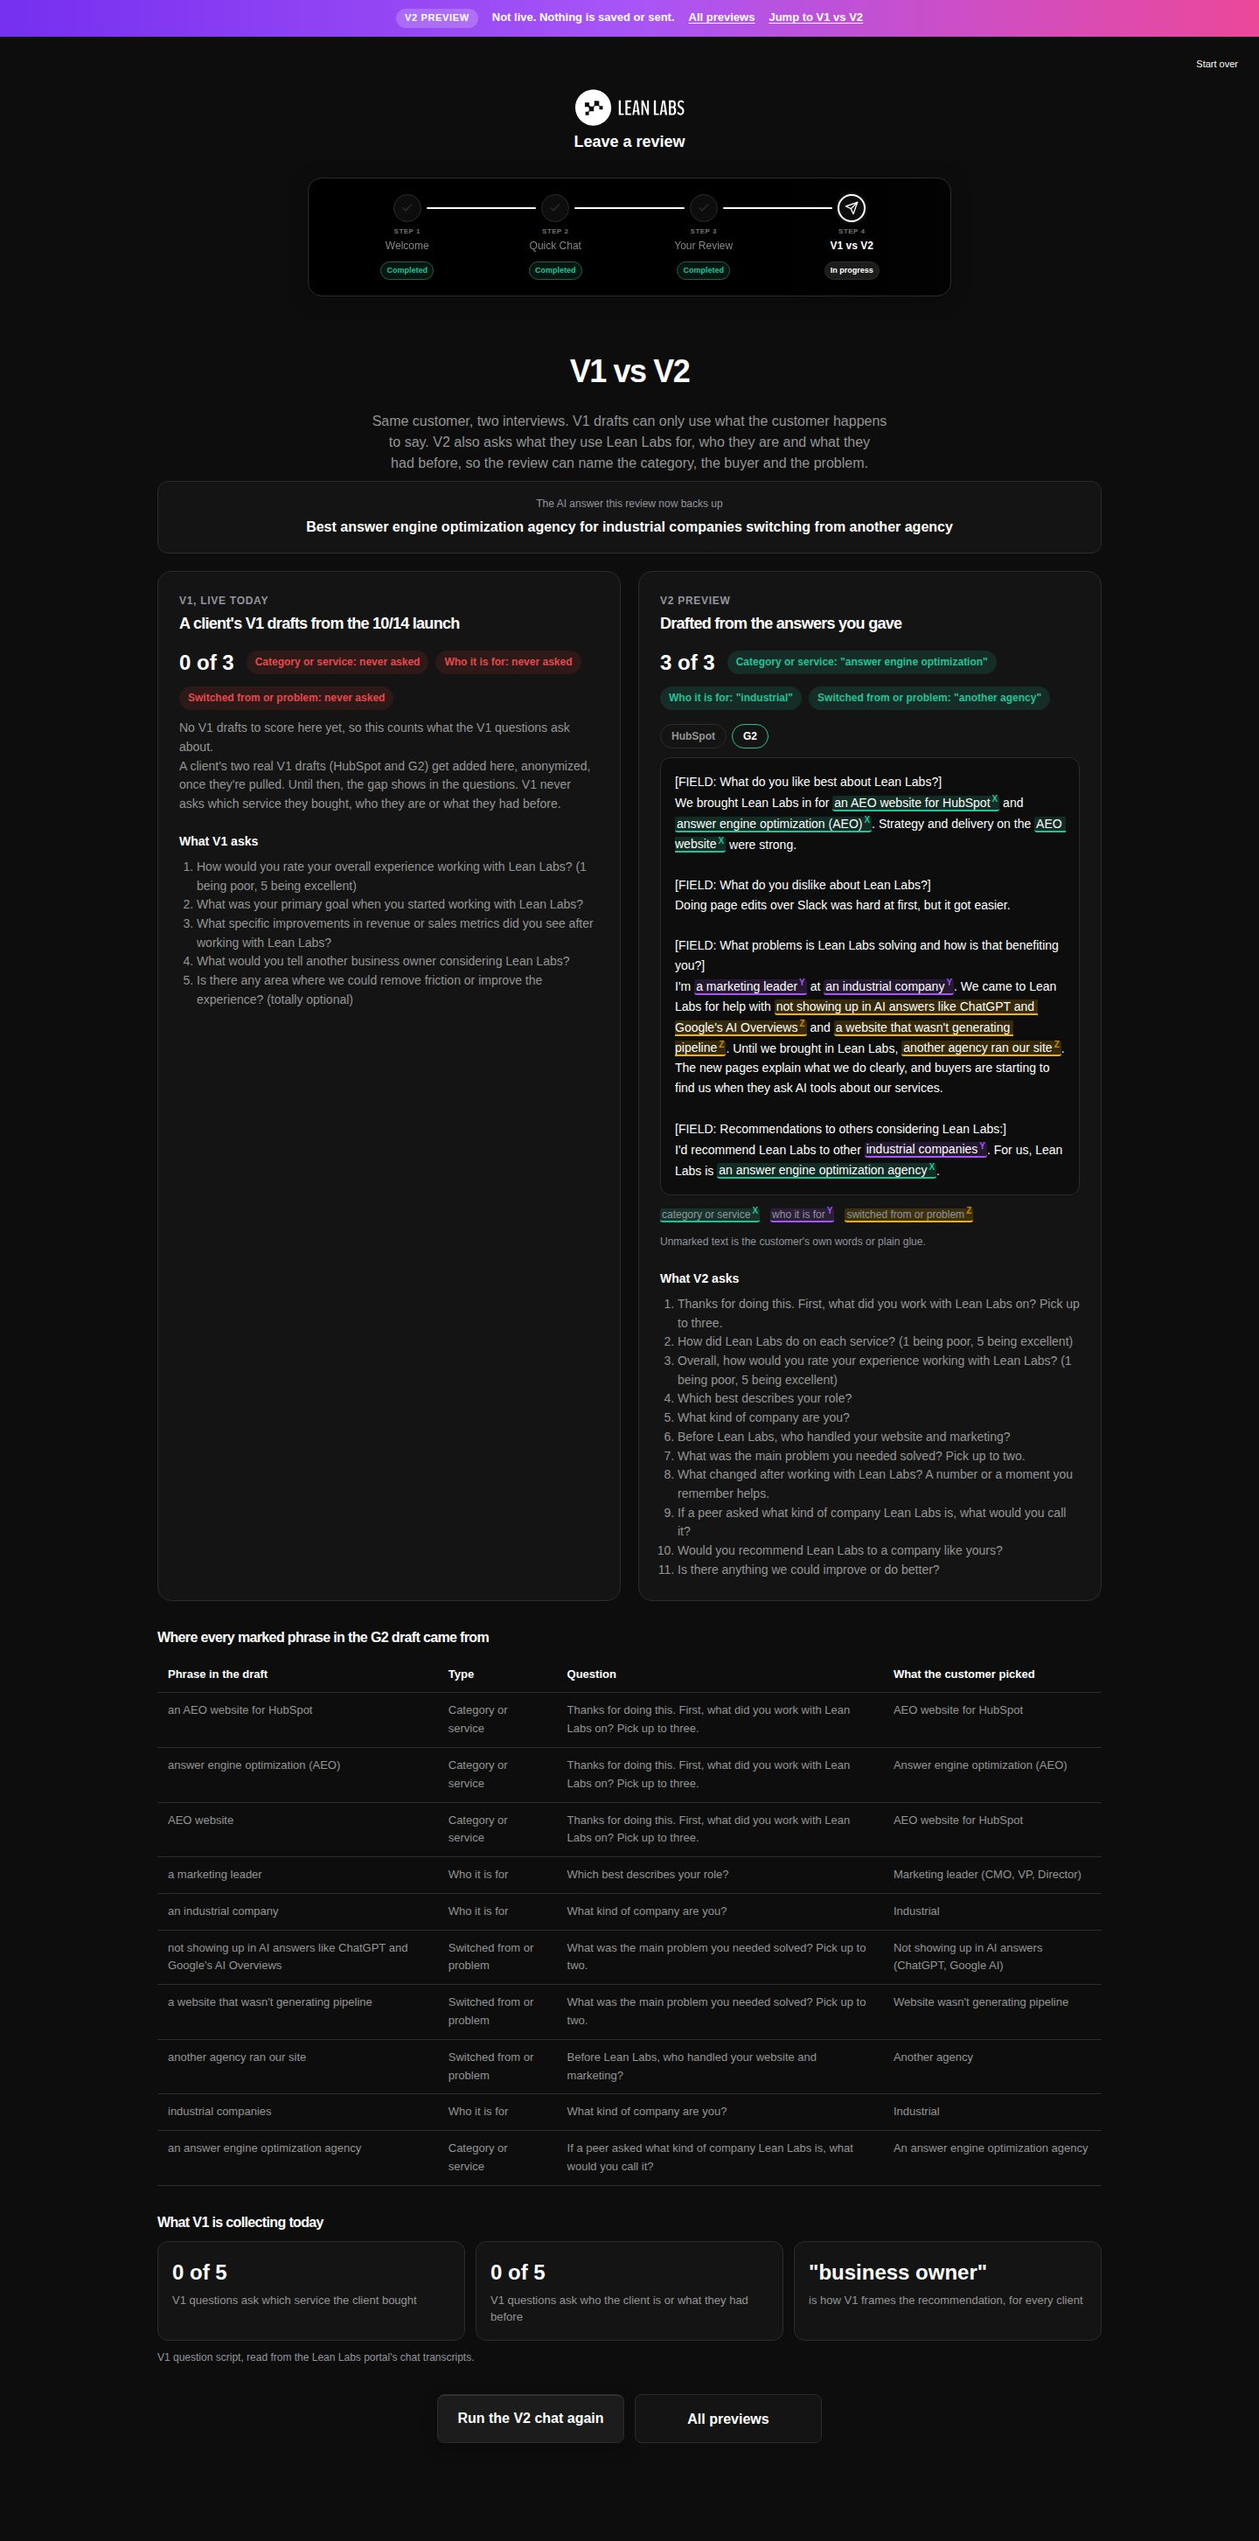
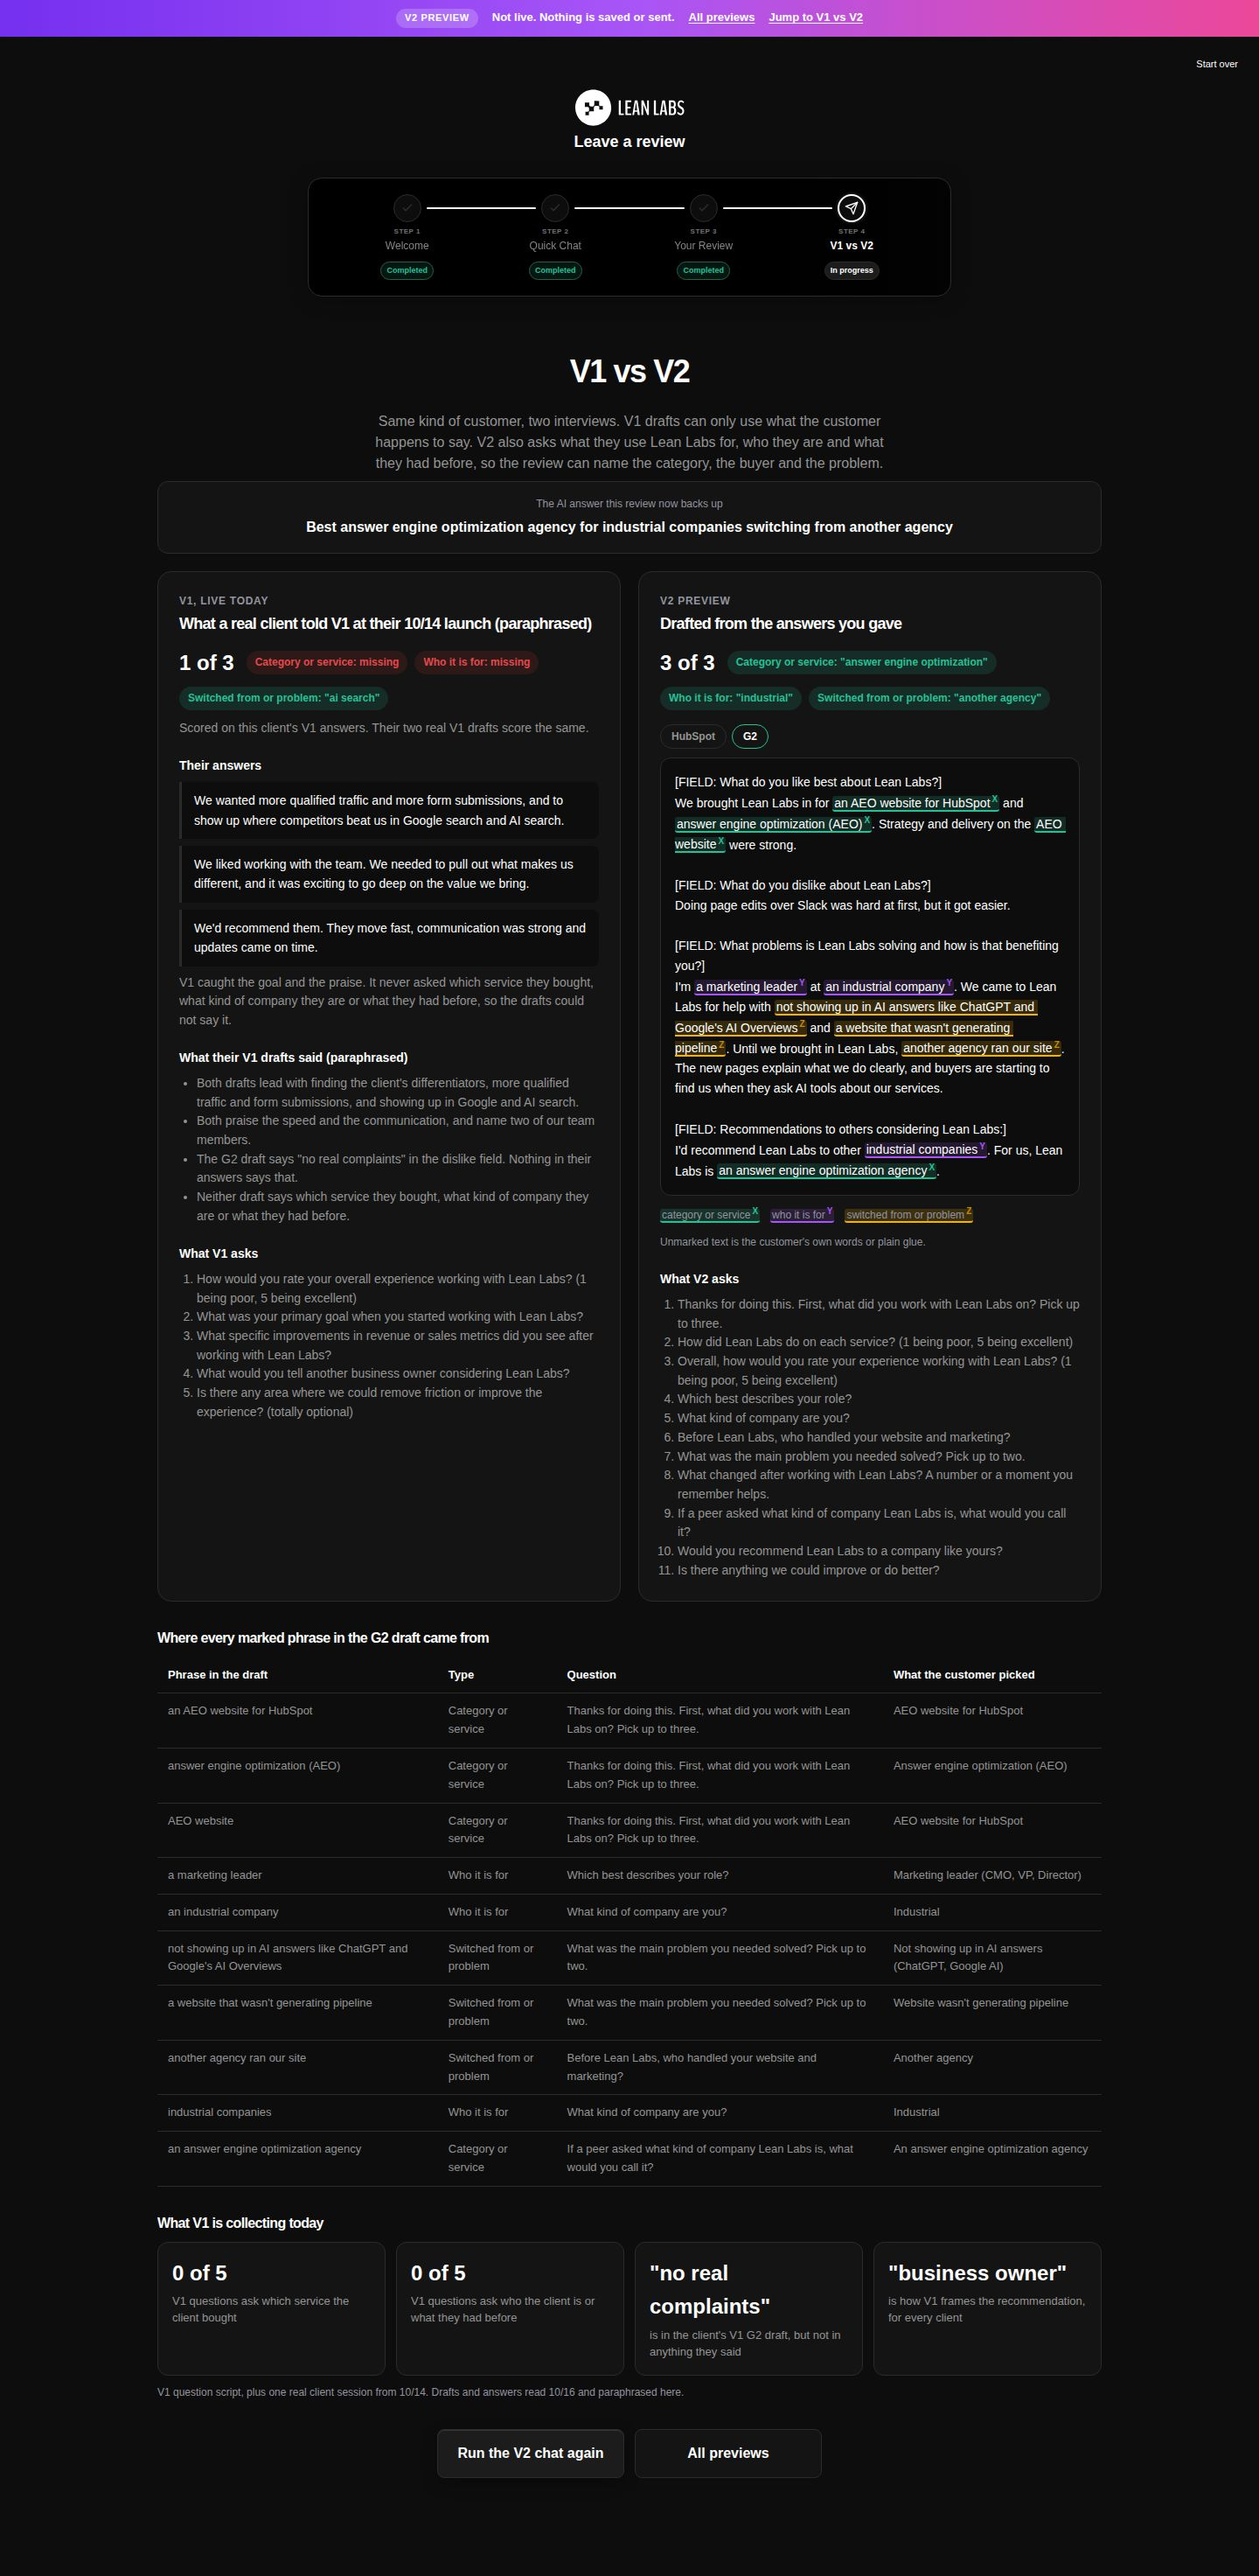
Add a real client's V1 session to the Lean Labs V1 card
The Lean Labs V1 card had no real data, so it only counted what the V1
questions ask. It now shows one real client session from the 10/14 launch,
paraphrased with no names: their answers, notes on what their two V1
drafts said, and the score. It names the problem ("AI search") but never
the service or what kind of company they are, so V1 scores 1 of 3.

- "ai search" now counts as naming the AI-answers problem, so V1 gets
  credit for it.
- Their V1 G2 draft says "no real complaints", which nothing in their
  answers says. Added as a stat next to the question gaps.
- The V2 sample customer is shaped like that client, so the compare
  header now says "Same kind of customer".
- The sample run checks each brand's V1 total, and the V1 sample test
  allows 1 of 3.

Claude-Session: https://claude.ai/code/session_019MyLobZXUjzZbFPYuTrY5U

diff --git a/pages/previews/v2/lean-labs/script.js b/pages/previews/v2/lean-labs/script.js
@@ -8,7 +8,10 @@
  *   Redesign and Migrations, Growth-Driven Design, HubSpot Projects
  * - target prompts, e.g. "Best answer engine optimization agencies with
  *   HubSpot integration", "best GDD agency for SaaS companies in HubSpot"
- * The sample customer is made up. It is not based on any real client.
+ * The sample customer is made up, but shaped like the client in the V1 card
+ * (an industrial company that wanted AI visibility and more pipeline), so V1
+ * and V2 compare like for like. The V1 session is real and paraphrased, with
+ * no names.
  */
 window.V2_PREVIEW = {
   slug: 'lean-labs',
@@ -85,7 +88,7 @@ window.V2_PREVIEW = {
       id: 'pain', type: 'multi', slot: 'Z', max: 2, min: 0, skip: true, ownWords: true,
       ask: 'What was the main problem you needed solved? Pick up to two.',
       options: [
-        { id: 'ai-answers', label: 'Not showing up in AI answers (ChatGPT, Google AI)', phrase: "not showing up in AI answers like ChatGPT and Google's AI Overviews", terms: ['ai answers'], bestAs: 'with visibility in AI answers' },
+        { id: 'ai-answers', label: 'Not showing up in AI answers (ChatGPT, Google AI)', phrase: "not showing up in AI answers like ChatGPT and Google's AI Overviews", terms: ['ai answers', 'ai search'], bestAs: 'with visibility in AI answers' },
         { id: 'pipeline', label: "Website wasn't generating pipeline", phrase: "a website that wasn't generating pipeline", terms: ['pipeline'], bestAs: 'with a website that builds pipeline' },
         { id: 'hard-update', label: 'Site was hard to update', phrase: 'a site that was hard to update', terms: ['hard to update'] },
         { id: 'no-aeo-plan', label: 'No plan for AEO', phrase: 'having no plan for AEO', terms: ['plan for aeo'] },
@@ -168,16 +171,27 @@ window.V2_PREVIEW = {
       'What would you tell another business owner considering Lean Labs?',
       'Is there any area where we could remove friction or improve the experience? (totally optional)',
     ],
-    sampleTitle: "A client's V1 drafts from the 10/14 launch",
-    sampleAnswers: [],
-    scoreCaption: 'No V1 drafts to score here yet, so this counts what the V1 questions ask about.',
-    sampleNote: "A client's two real V1 drafts (HubSpot and G2) get added here, anonymized, once they're pulled. Until then, the gap shows in the questions. V1 never asks which service they bought, who they are or what they had before.",
+    sampleTitle: 'What a real client told V1 at their 10/14 launch (paraphrased)',
+    sampleAnswers: [
+      'We wanted more qualified traffic and more form submissions, and to show up where competitors beat us in Google search and AI search.',
+      'We liked working with the team. We needed to pull out what makes us different, and it was exciting to go deep on the value we bring.',
+      "We'd recommend them. They move fast, communication was strong and updates came on time.",
+    ],
+    scoreCaption: "Scored on this client's V1 answers. Their two real V1 drafts score the same.",
+    sampleNote: 'V1 caught the goal and the praise. It never asked which service they bought, what kind of company they are or what they had before, so the drafts could not say it.',
+    draftNotes: [
+      "Both drafts lead with finding the client's differentiators, more qualified traffic and form submissions, and showing up in Google and AI search.",
+      'Both praise the speed and the communication, and name two of our team members.',
+      'The G2 draft says "no real complaints" in the dislike field. Nothing in their answers says that.',
+      'Neither draft says which service they bought, what kind of company they are or what they had before.',
+    ],
     published: null,
     stats: [
       { big: '0 of 5', text: 'V1 questions ask which service the client bought' },
       { big: '0 of 5', text: 'V1 questions ask who the client is or what they had before' },
+      { big: '"no real complaints"', text: "is in the client's V1 G2 draft, but not in anything they said" },
       { big: '"business owner"', text: 'is how V1 frames the recommendation, for every client' },
     ],
-    statsSource: "V1 question script, read from the Lean Labs portal's chat transcripts.",
+    statsSource: 'V1 question script, plus one real client session from 10/14. Drafts and answers read 10/16 and paraphrased here.',
   },
 };

diff --git a/scripts/v2-preview-sample-run.js b/scripts/v2-preview-sample-run.js
@@ -22,8 +22,8 @@ const BASE = process.env.BASE_URL || `http://localhost:${PORT}`;
 const LAUNCH_ARGS = process.env.CHROMIUM_ARGS ? process.env.CHROMIUM_ARGS.split(' ') : [];
 
 const BRANDS = {
-  eimmigration: { expect: ['immigration case management', 'nonprofit', 'spreadsheets'], openDrafts: '.chat-draft-inline__link' },
-  'lean-labs': { expect: ['AEO website for HubSpot', 'industrial company', 'another agency'], openDrafts: '#btn-view-draft' },
+  eimmigration: { v1: '0 of 3', expect: ['immigration case management', 'nonprofit', 'spreadsheets'], openDrafts: '.chat-draft-inline__link' },
+  'lean-labs': { v1: '1 of 3', expect: ['AEO website for HubSpot', 'industrial company', 'another agency'], openDrafts: '#btn-view-draft' },
 };
 
 function startServer() {
@@ -122,7 +122,7 @@ async function runBrand(browser, slug, viewport, tag) {
   assert.ok(log.every((r) => r.method === 'GET'), `${slug}: sent a non-GET request`);
   assert.ok(!log.some((r) => ['fetch', 'xhr', 'websocket', 'eventsource', 'ping'].includes(r.type)), `${slug}: made a data request`);
   assert.deepEqual(errors, [], `${slug}: page errors ${errors.join('; ')}`);
-  assert.equal(totals[0], '0 of 3', `${slug}: V1 score`);
+  assert.equal(totals[0], cfg.v1, `${slug}: V1 score`);
   assert.equal(totals[totals.length - 1], '3 of 3', `${slug}: V2 score`);
   cfg.expect.forEach((phrase) => assert.ok(v2Text.toLowerCase().includes(phrase.toLowerCase()), `${slug}: compare draft is missing "${phrase}"`));
   return { slug, tag, requests: log.length, draftWords: draftText.split(/\s+/).length, totals, sample: allDrafts.slice(0, 80) };

diff --git a/pages/previews/v2/eimmigration/index.html b/pages/previews/v2/eimmigration/index.html
@@ -190,7 +190,7 @@
 
 <div id="screen-compare" class="screen">
   <div class="screen-content v2-wide">
-    <div class="screen-header"><h3>V1 vs V2</h3><p>Same customer, two interviews. V1 drafts can only use what the customer happens to say. V2 also asks what they use <span class="company-name">Company</span> for, who they are and what they had before, so the review can name the category, the buyer and the problem.</p></div>
+    <div class="screen-header"><h3>V1 vs V2</h3><p>Same kind of customer, two interviews. V1 drafts can only use what the customer happens to say. V2 also asks what they use <span class="company-name">Company</span> for, who they are and what they had before, so the review can name the category, the buyer and the problem.</p></div>
     <div id="compare-host"></div>
     <div class="v2-compare-actions">
       <button type="button" class="btn btn-primary btn-lg" data-v2-restart>Run the V2 chat again</button>

diff --git a/pages/previews/v2/lean-labs/index.html b/pages/previews/v2/lean-labs/index.html
@@ -221,7 +221,7 @@
 
 <div id="screen-compare" class="screen">
   <div class="screen-content v2-wide">
-    <div class="screen-header"><h3>V1 vs V2</h3><p>Same customer, two interviews. V1 drafts can only use what the customer happens to say. V2 also asks what they use <span class="company-name">Company</span> for, who they are and what they had before, so the review can name the category, the buyer and the problem.</p></div>
+    <div class="screen-header"><h3>V1 vs V2</h3><p>Same kind of customer, two interviews. V1 drafts can only use what the customer happens to say. V2 also asks what they use <span class="company-name">Company</span> for, who they are and what they had before, so the review can name the category, the buyer and the problem.</p></div>
     <div id="compare-host"></div>
     <div class="v2-compare-actions">
       <button type="button" class="btn btn-primary btn-lg" data-v2-restart>Run the V2 chat again</button>

diff --git a/pages/previews/v2/preview.js b/pages/previews/v2/preview.js
@@ -584,6 +584,10 @@
       v1.sampleAnswers.forEach((a) => v1Card.appendChild(el('blockquote', { text: a })));
     }
     if (v1.sampleNote) v1Card.appendChild(el('p', { text: v1.sampleNote }));
+    if (v1.draftNotes && v1.draftNotes.length) {
+      v1Card.appendChild(el('h5', { text: 'What their V1 drafts said (paraphrased)' }));
+      v1Card.appendChild(el('ul', {}, v1.draftNotes.map((n) => el('li', { text: n }))));
+    }
     if (v1.published) {
       v1Card.appendChild(el('h5', { text: `A published V1 review (${v1.published.site})` }));
       v1Card.appendChild(el('blockquote', { text: v1.published.title }));

diff --git a/test/v2-preview.test.js b/test/v2-preview.test.js
@@ -182,7 +182,8 @@ test('V2 sample drafts carry our words, the V1 sample does not', () => {
       assert.equal(D.scoreOurWords(d.text, ow).score, 3, `${slug}/${plat} should name X, Y and Z`);
     });
     if (p.v1.sampleAnswers.length) {
-      assert.equal(D.scoreOurWords(p.v1.sampleAnswers.join(' '), ow).score, 0);
+      const v1 = D.scoreOurWords(p.v1.sampleAnswers.join(' '), ow).score;
+      assert.ok(v1 <= 1, `${slug}: the V1 sample names ${v1} of 3`);
     }
     assert.match(D.bestFor(p, p.persona), /^Best .+ for .+/);
   }

diff --git a/pages/previews/v2/preview.css b/pages/previews/v2/preview.css
@@ -251,7 +251,8 @@
 }
 .v2-card p,
 .v2-card li { font-size: 0.875rem; line-height: 1.55; color: var(--ll-body); }
-.v2-card ol { margin: 0; padding-left: 20px; }
+.v2-card ol,
+.v2-card ul { margin: 0; padding-left: 20px; }
 .v2-card blockquote {
   margin: 0 0 8px;
   padding: 10px 14px;
